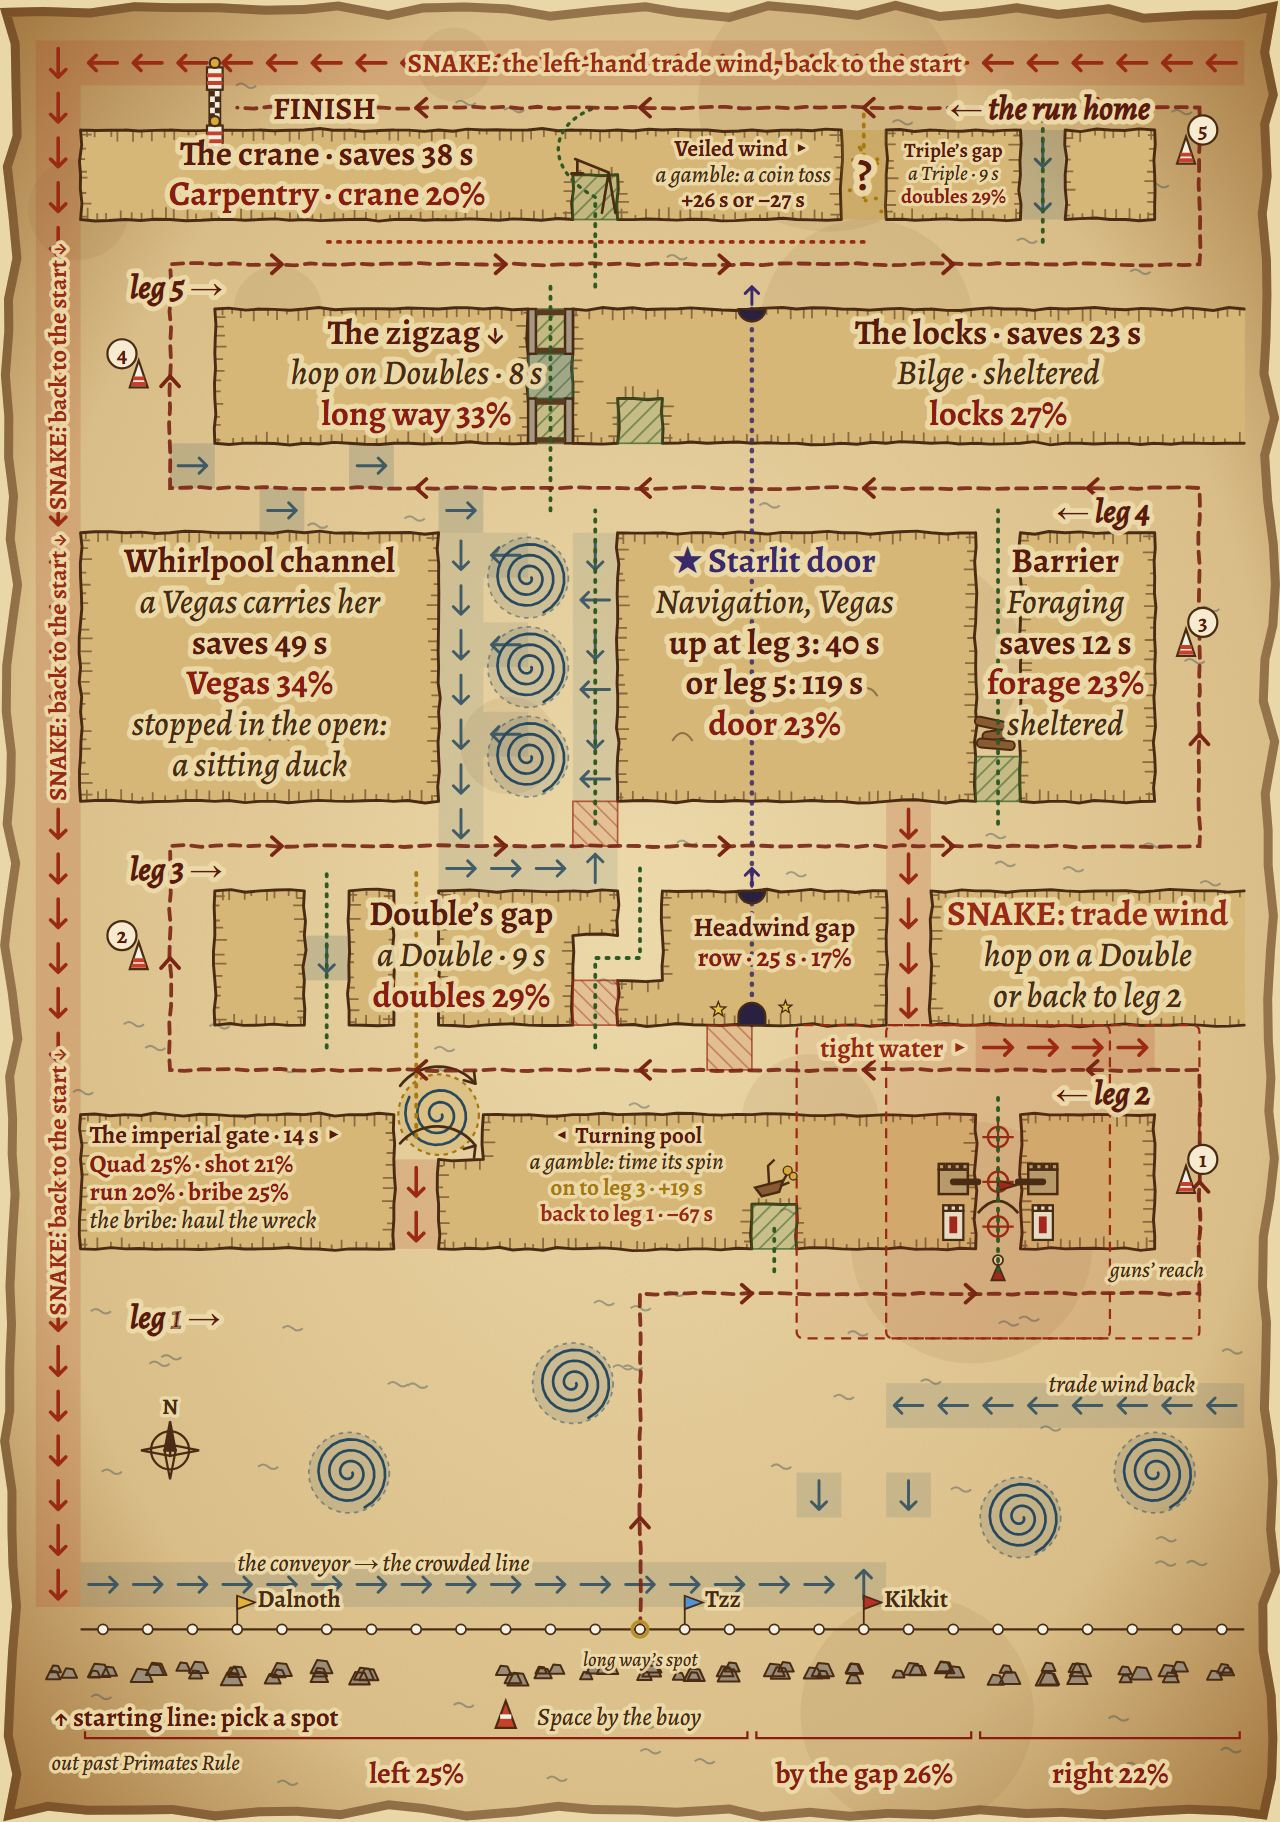
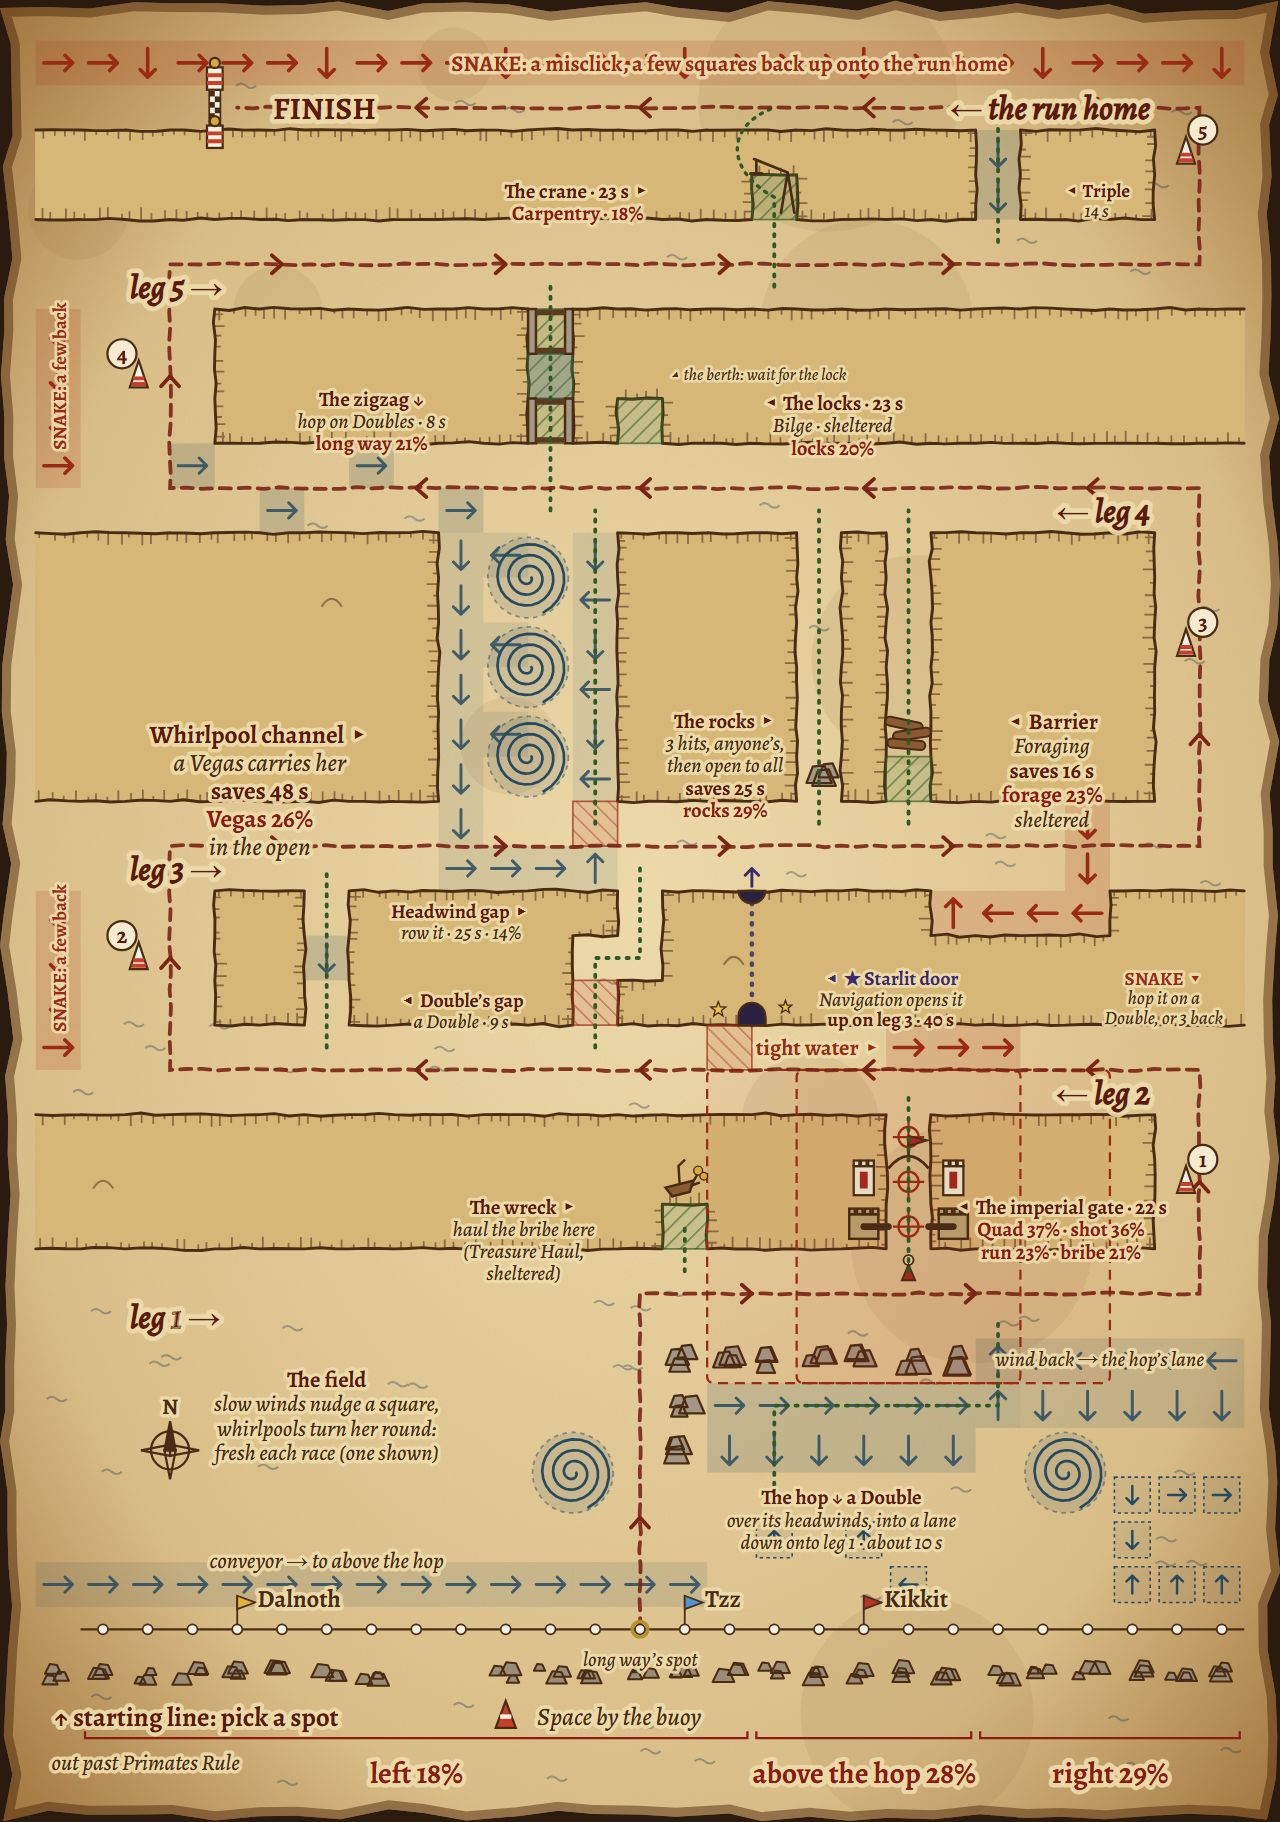
Pirate Den: the race's chart redrawn, every label beside what it names, and a test that it's kept in step
tools/race-map.mjs: no gambles; the rocks, the field's slow winds (one race's) and its hop; the gate's, the
locks' and every other label on its feature; the wreck 'haul the bribe here', the berth 'wait for the lock',
the headwind gap 'row it'; the door one stretch. With JPG= it writes changelog/race-map.jpg itself (a headless
Chrome's screenshot), stamped with the course's fingerprint (chartFingerprint, src/race-sim.ts), and
tests/race-chart.test.ts fails when the course has changed since.

diff --git a/tests/race-chart.test.ts b/tests/race-chart.test.ts
@@ -1,0 +1,29 @@
+/* The race's chart kept in step with the course (12 Nov). The user: "hopefully we're keeping this [race map]
+   JPEG in sync." tools/race-map.mjs stamps changelog/race-map.jpg with a fingerprint of the course it drew (a
+   JPEG comment: chartFingerprint, src/race-sim.ts); this fails when the course, or what its shortcuts save, has
+   changed since, as tests/build.test.ts does for the compiled js. Draw it again:
+     JPG=changelog/race-map.jpg node_modules/node/bin/node.exe tools/race-map.mjs <out.html> 2000 */
+import { readFileSync } from 'node:fs';
+import { describe, expect, it } from 'vitest';
+import { chartFingerprint } from '../src/race-sim';
+import { layRace } from '../src/den-sail';
+import { DEFAULT_COURSE } from '../src/race-course';
+
+const drawn = (): string | null => {
+  const jpg = readFileSync(new URL('../changelog/race-map.jpg', import.meta.url));
+  const m = /race-course:([0-9a-f]{8})/.exec(jpg.subarray(0, 4096).toString('latin1'));
+  return m ? m[1] : null;
+};
+
+describe('the race\'s chart, changelog/race-map.jpg, kept in step with the course (12 Nov: "hopefully we\'re keeping this [race map] JPEG in sync")', () => {
+  it('records the course it drew, and it\'s the den\'s own course as laid today (redraw it with tools/race-map.mjs if not)', () => {
+    expect(drawn(), 'the chart has no fingerprint: draw it with JPG=changelog/race-map.jpg').not.toBeNull();
+    expect(drawn(), 'the course has changed since the chart was drawn: JPG=changelog/race-map.jpg node tools/race-map.mjs').toBe(chartFingerprint());
+  });
+
+  it('a course moved even a square, or a shortcut that saves differently, has another fingerprint', () => {
+    const k = chartFingerprint();
+    expect(chartFingerprint(layRace({ ...DEFAULT_COURSE, lock: DEFAULT_COURSE.lock + 1 }))).not.toBe(k);
+    expect(chartFingerprint(layRace({ ...DEFAULT_COURSE }))).toBe(k);
+  });
+});

diff --git a/js/race-sim.js b/js/race-sim.js
@@ -1034,6 +1034,20 @@ export function simulate(o) {
 export function simDrive(field, rivals, seed = Math.floor(Math.random() * 2 ** 31)) {
     return sail({ field, seed, racers: rivals.map((r) => ({ route: route(r.racer.route), style: style(r.racer.style), skill: r.racer.skill, spot: r.spot })) });
 }
+/** The course's fingerprint, as the race's chart records it (tools/race-map.mjs, changelog/race-map.jpg's JPEG
+    comment; tests/race-chart.test.ts compares them, 12 Nov: "hopefully we're keeping this [race map] JPEG in
+    sync"): a short hash of everything the chart draws from, the den's own course as laid (every square of it)
+    and what each shortcut saves. */
+export function chartFingerprint(lay = DEFAULT_LAY) {
+    const { COURSE: _k, CUSTOM: _c, CODE: _d, ...squares } = lay;
+    const s = JSON.stringify({ squares, decent: RACE.DECENT, door: DOOR.SAVES, zigzag: SIM.ZIGZAG, long: SIM.LONG });
+    let h = 0x811c9dc5;
+    for (let i = 0; i < s.length; i++) {
+        h ^= s.charCodeAt(i);
+        h = Math.imul(h, 0x01000193) >>> 0;
+    }
+    return h.toString(16).padStart(8, '0');
+}
 export const zoneOf = (c) => (c < 16 ? 'left' : c <= 20 ? 'gap' : 'right');
 /** A standard field of `size` from seed `seed`: each racer a route drawn at random (no two alike), a
     style and a skill drawn at random, and a spot on the line: half go for the field's gap (the quickest

diff --git a/src/race-sim.ts b/src/race-sim.ts
@@ -1028,6 +1028,18 @@ export function simDrive(field: Field, rivals: readonly Rival[], seed = Math.flo
   return sail({ field, seed, racers: rivals.map((r) => ({ route: route(r.racer.route), style: style(r.racer.style), skill: r.racer.skill, spot: r.spot })) });
 }
 
+/** The course's fingerprint, as the race's chart records it (tools/race-map.mjs, changelog/race-map.jpg's JPEG
+    comment; tests/race-chart.test.ts compares them, 12 Nov: "hopefully we're keeping this [race map] JPEG in
+    sync"): a short hash of everything the chart draws from, the den's own course as laid (every square of it)
+    and what each shortcut saves. */
+export function chartFingerprint(lay: RaceLay = DEFAULT_LAY): string {
+  const { COURSE: _k, CUSTOM: _c, CODE: _d, ...squares } = lay;
+  const s = JSON.stringify({ squares, decent: RACE.DECENT, door: DOOR.SAVES, zigzag: SIM.ZIGZAG, long: SIM.LONG });
+  let h = 0x811c9dc5;
+  for (let i = 0; i < s.length; i++) { h ^= s.charCodeAt(i); h = Math.imul(h, 0x01000193) >>> 0; }
+  return h.toString(16).padStart(8, '0');
+}
+
 /* ---- Many races ---- */
 
 export interface Tally { n: number; wins: number; time: number; hitsTaken: number; hitsGiven: number }
